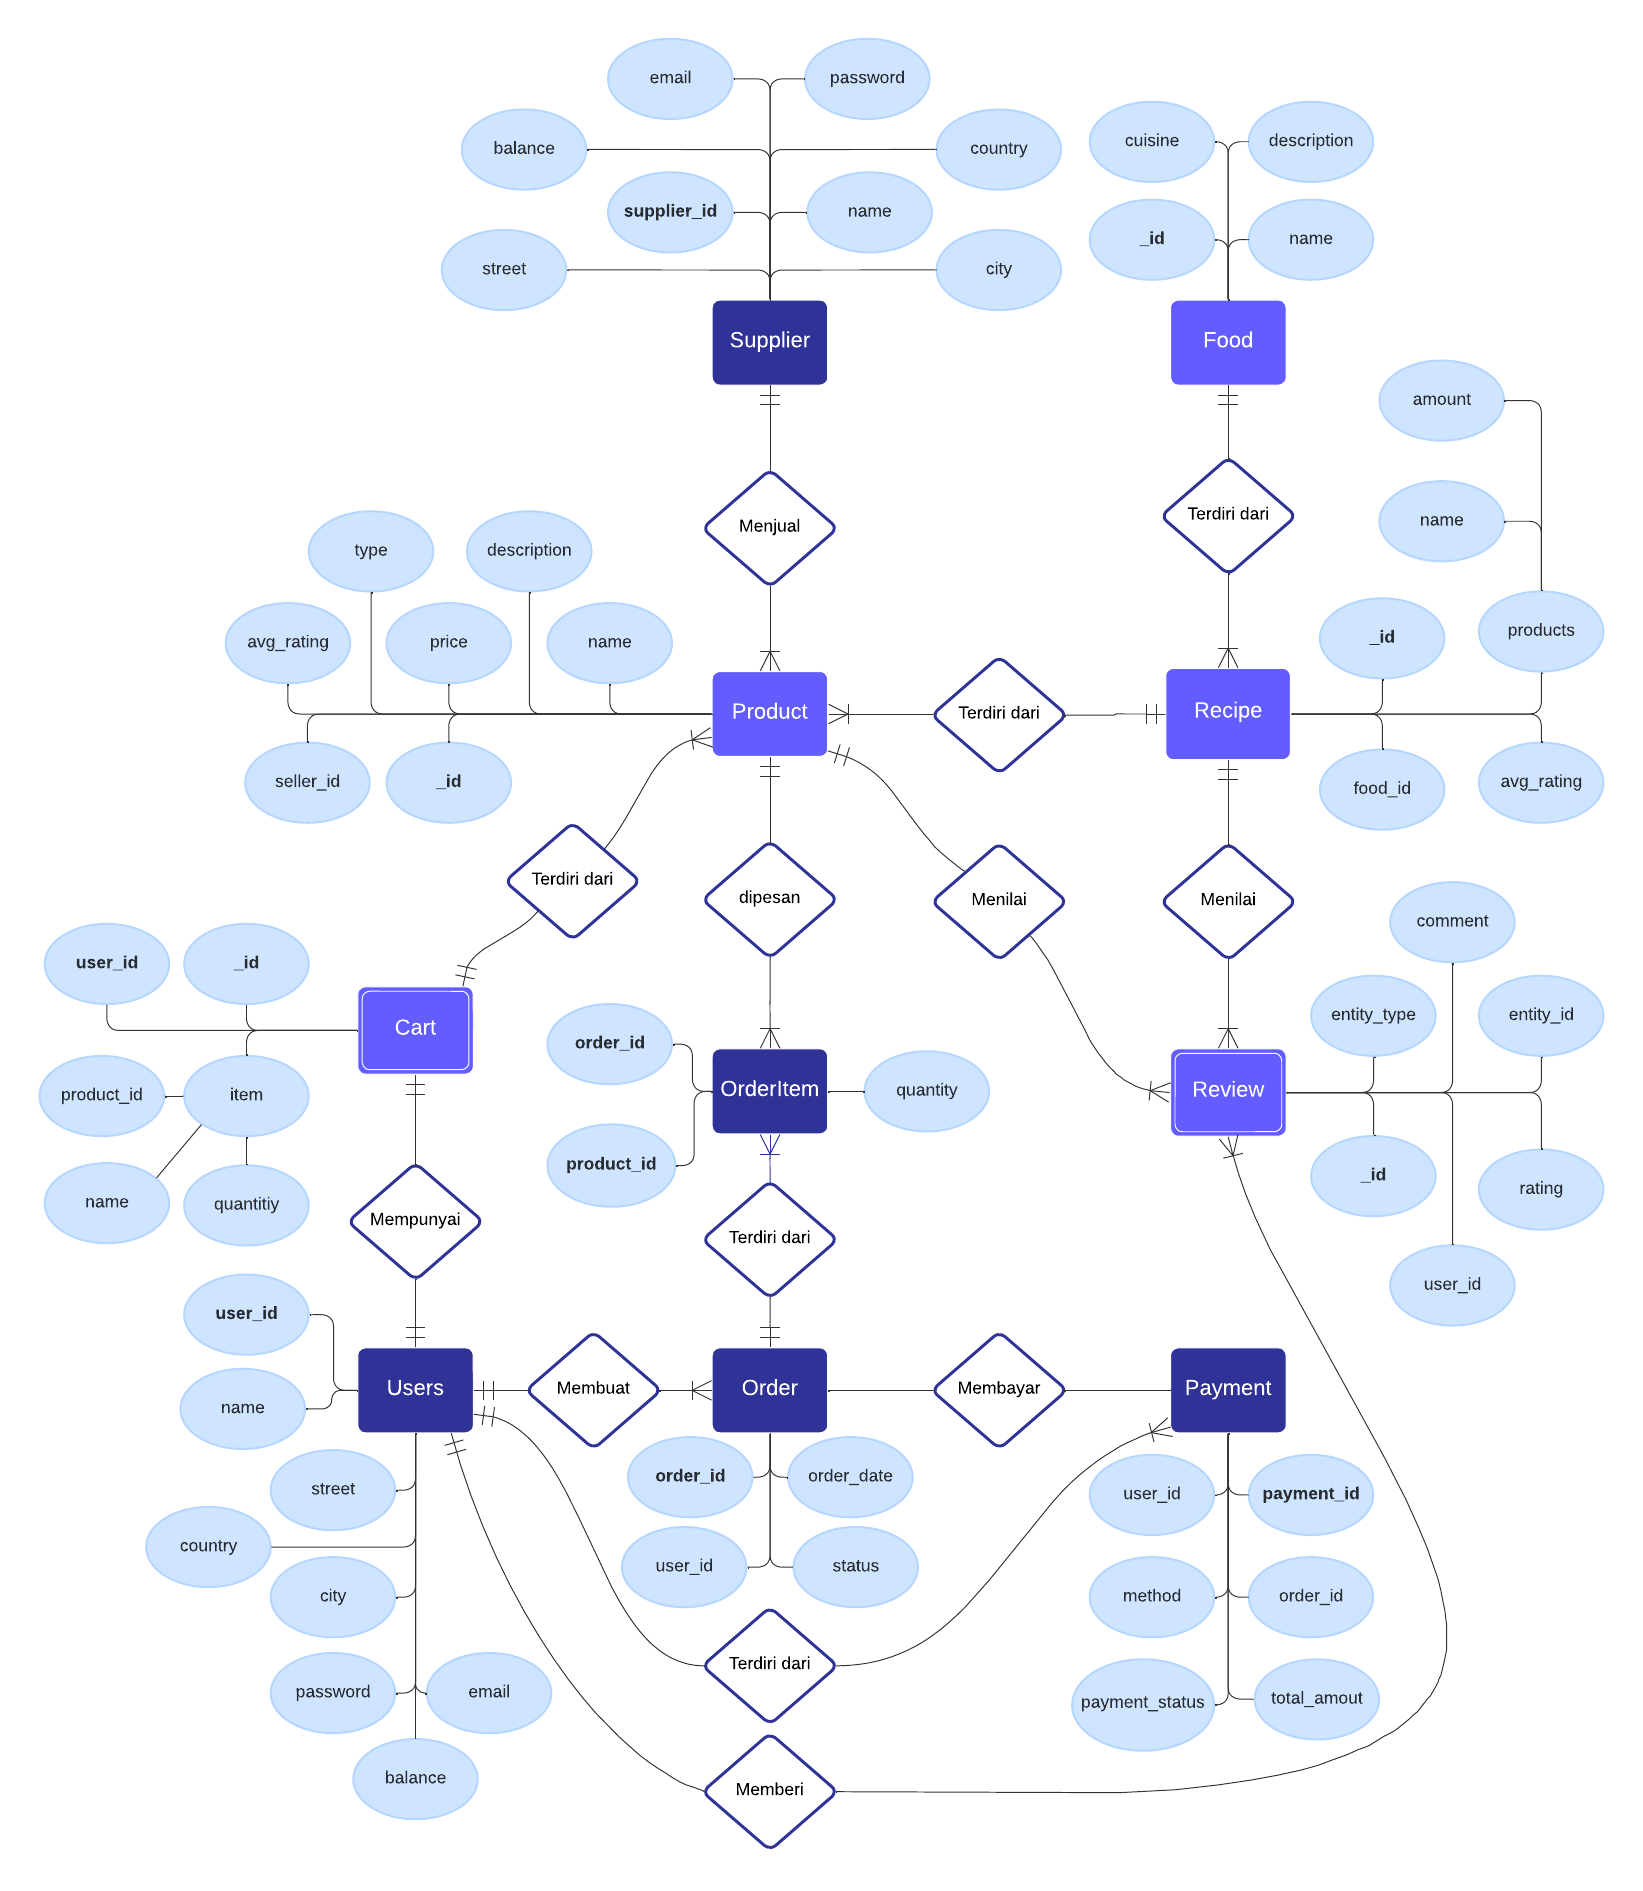
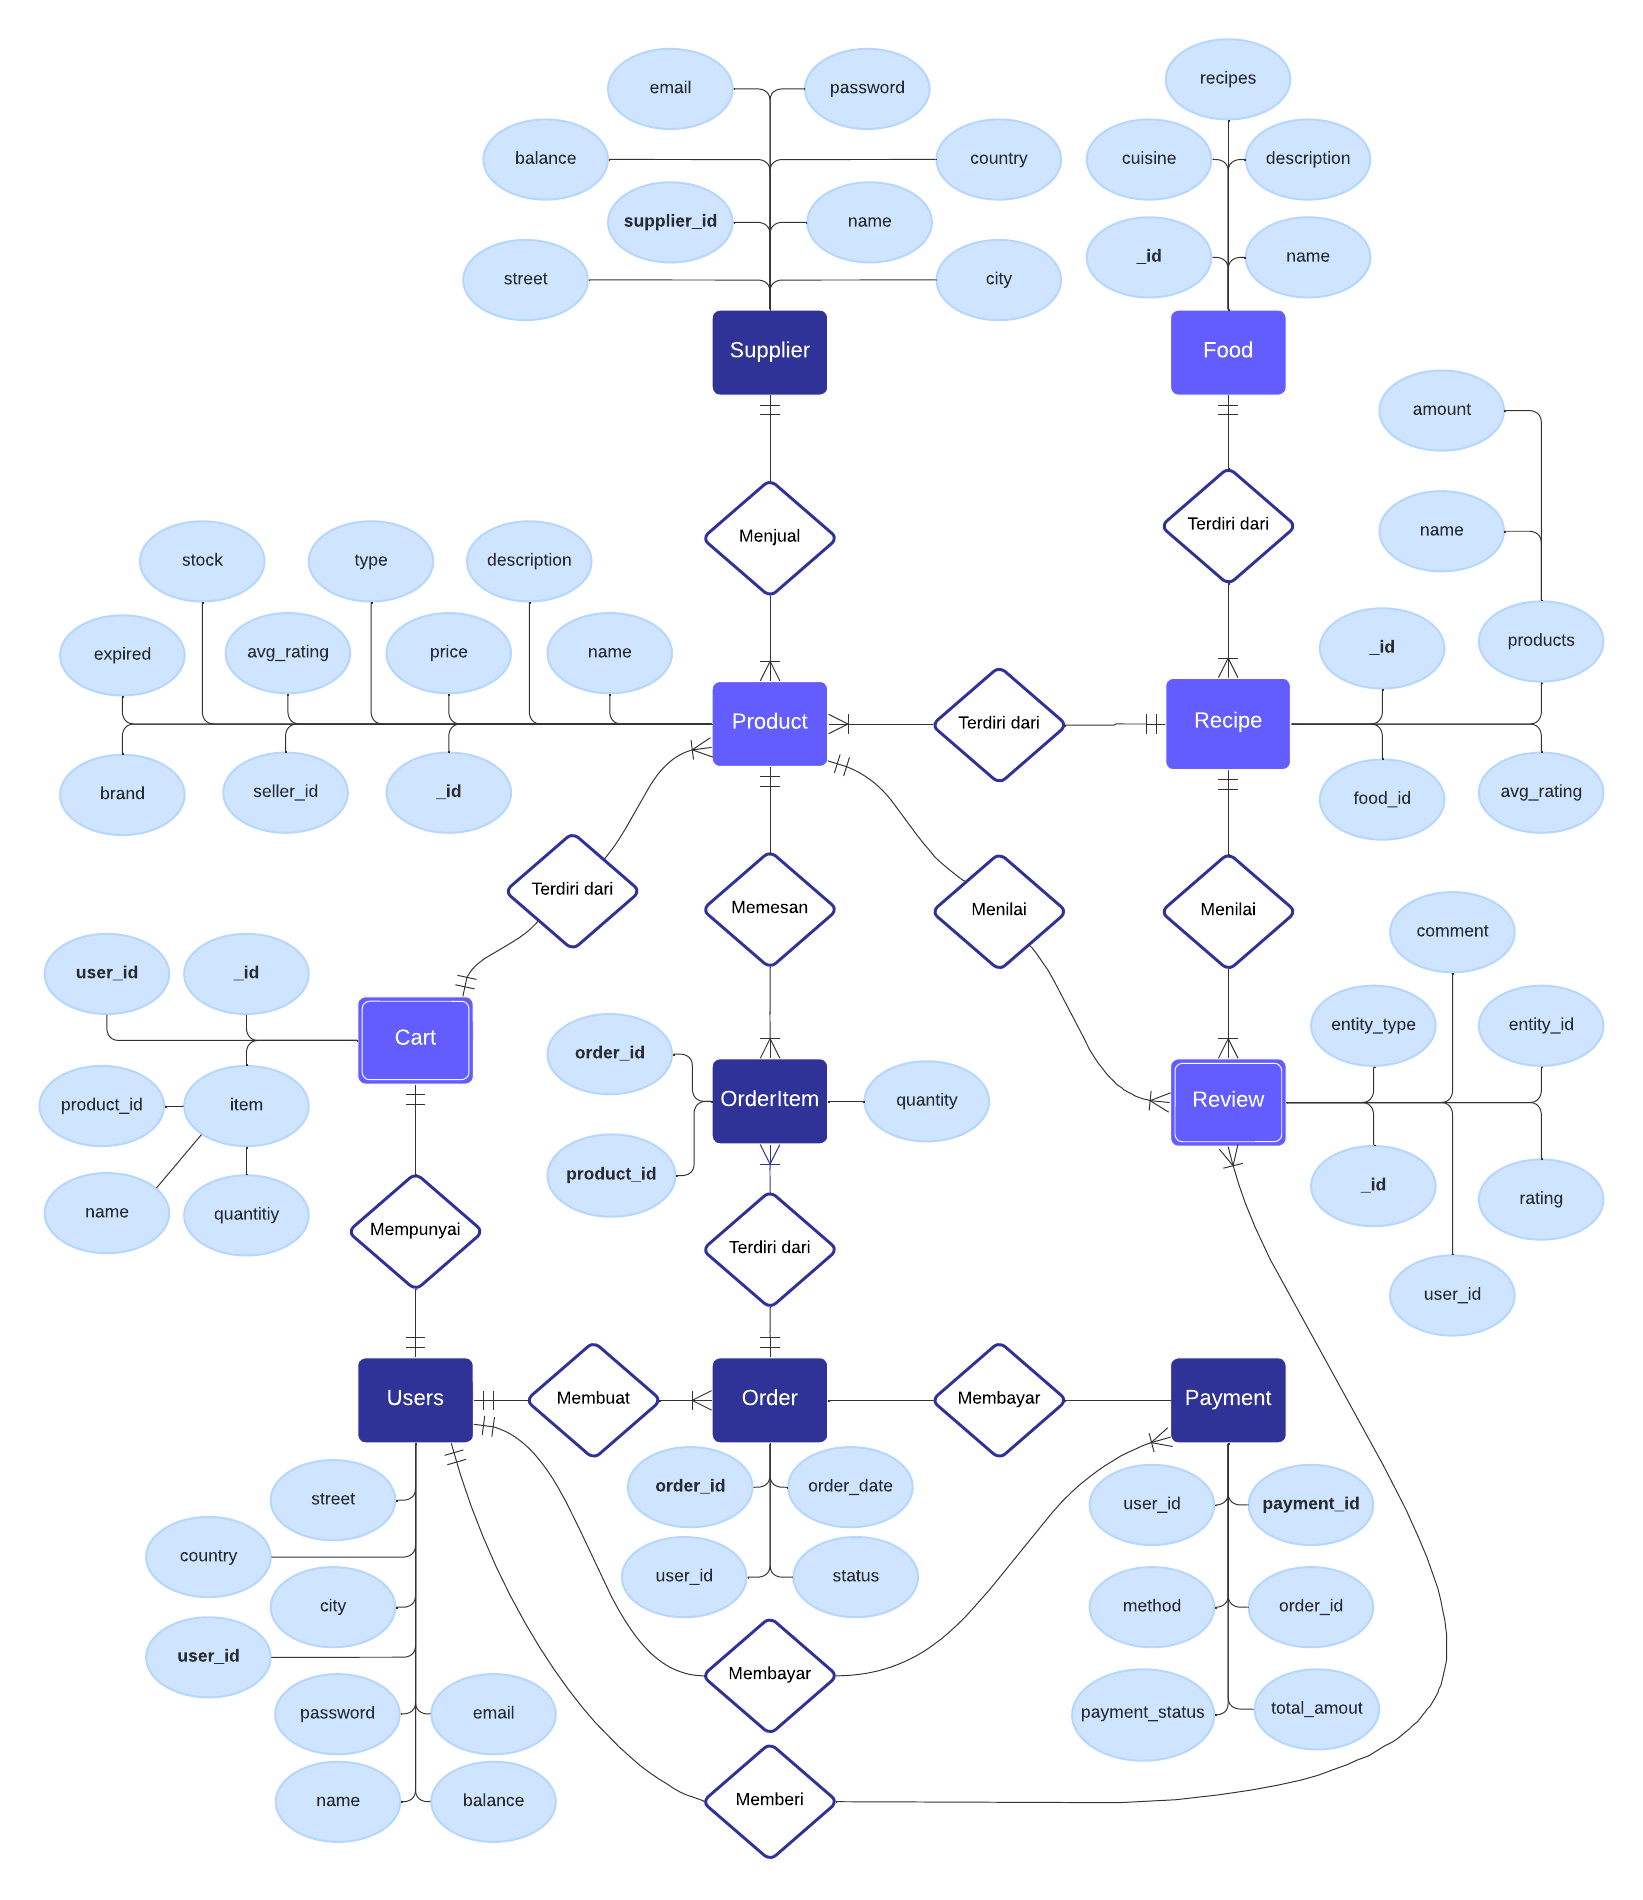
finish productController

diff --git a/server/controllers/productController.js b/server/controllers/productController.js
@@ -57,53 +57,48 @@ const addProduct = async (req, res, next) => {
   }
 };
 
-// const updateProduct = async (req, res, next) => {
-//   const id = req.params.productId;
-//   const newData = req.body;
-//   try {
-//     const product = await Product.updateOne({ _id: id }, { $set: newData });
-//     res
-//       .status(200)
-//       .json({ message: "Product updated successfully", payload: product });
-//   } catch (error) {
-//     res.status(500).json({ message: error.message });
-//   }
-// };
+const updateProduct = async (req, res, next) => {
+  const id = req.params.productId;
+  const data = req.body;
+  const seller_id = req.user.id;
+  try {
+    const product = await Product.findOne({ _id: id });
+    
+    if (!product) {
+      return res.status(404).json({ msg: "Product not found" });
+    }
+    if(product.seller_id != seller_id) {
+      return res.status(403).json({ msg: "Forbidden request"});
+    }
+    const updatedProduct = await Product.updateOne({ _id: id }, { $set: data });
+    res
+      .status(200)
+      .json({ message: "Product updated successfully", payload: updatedProduct });
+  } catch (error) {
+    res.status(500).json({ message: error.message });
+  }
+};
 
-// const deleteProduct = async (req, res, next) => {
-//   const id = req.params.productId;
-//   try {
-//     const product = await Product.deleteOne({ _id: id });
-//     res
-//       .status(200)
-//       .json({ message: "Product deleted successfully", payload: product });
-//   } catch (error) {
-//     res.status(500).json({ message: error.message });
-//   }
-// };
+const deleteProduct = async (req, res, next) => {
+  const product_id = req.params.productId;
+  const seller_id = req.user.id;
+  try {
+    const product = await Product.findOne({ _id: product_id });
+    
+    if (!product) {
+      return res.status(404).json({ msg: "Product not found" });
+    }
+    if(product.seller_id != seller_id) {
+      return res.status(403).json({ msg: "Forbidden request"});
+    }
+    
+    const deletedProduct = await Product.deleteOne({ _id: product_id });
+    res
+      .status(200)
+      .json({ message: "Product deleted successfully", payload: deletedProduct });
+  } catch (error) {
+    res.status(500).json({ message: error.message });
+  }
+};
 
-// const addProduct = async (req, res) => {
-//   const { email, name, description, price } = req.body;
-
-//   try {
-//     const seller_id = req.user.id;
-//     const result = await pool.query(
-//       'INSERT INTO products (name, description, price, seller_id) VALUES ($1, $2, $3, $4) RETURNING *',
-//       [name, description, price, seller_id]
-//     );
-//     res.status(201).json({msg: "Success", payload: result.rows[0]});
-//   } catch (error) {
-//     res.status(500).json({ error: error.message });
-//   }
-// };
-
-// const getProducts = async (req, res) => {
-//   try {
-//     const result = await pool.query('SELECT * FROM products');
-//     res.json(result.rows);
-//   } catch (error) {
-//     res.status(500).json({ error: error.message });
-//   }
-// };
-
-module.exports = { getProducts, getAllProducts, getProductById, addProduct };
+module.exports = { getProducts, getAllProducts, getProductById, addProduct, updateProduct, deleteProduct };

diff --git a/server/routes/productRoutes.js b/server/routes/productRoutes.js
@@ -10,9 +10,11 @@ const {
 const authMiddleware = require("../middlewares/authMiddleware");
 const router = express.Router();
 
-router.get("/myproducts", authMiddleware(["supplier"]), getProducts);
 router.get("/", authMiddleware(["user", "supplier"]), getAllProducts);
+router.get("/myproducts", authMiddleware(["supplier"]), getProducts);
 router.get("/:productId", authMiddleware(["user", "supplier"]),getProductById);
 router.post("/add", authMiddleware(["supplier"]), addProduct);
+router.put("/update/:productId", authMiddleware(["supplier"]), updateProduct);
+router.delete("/delete/:productId", authMiddleware(["supplier"]), deleteProduct);
 
 module.exports = router;

diff --git a/server/models/ProductModel.js b/server/models/ProductModel.js
@@ -19,6 +19,10 @@ const ProductSchema = mongoose.Schema({
     type: Date,
     required: false
   },
+  stock: {
+    type: Number,
+    required: true
+  },
   price: {
     type: Number,
     required: true

diff --git a/README.md b/README.md
@@ -1,3 +1,3 @@
-# Final Project
+# Pantry Pal
 #### ERD
 ![PantryPal App ERD](/kelengkapan/PantryPal%20App%20ERD.png)
